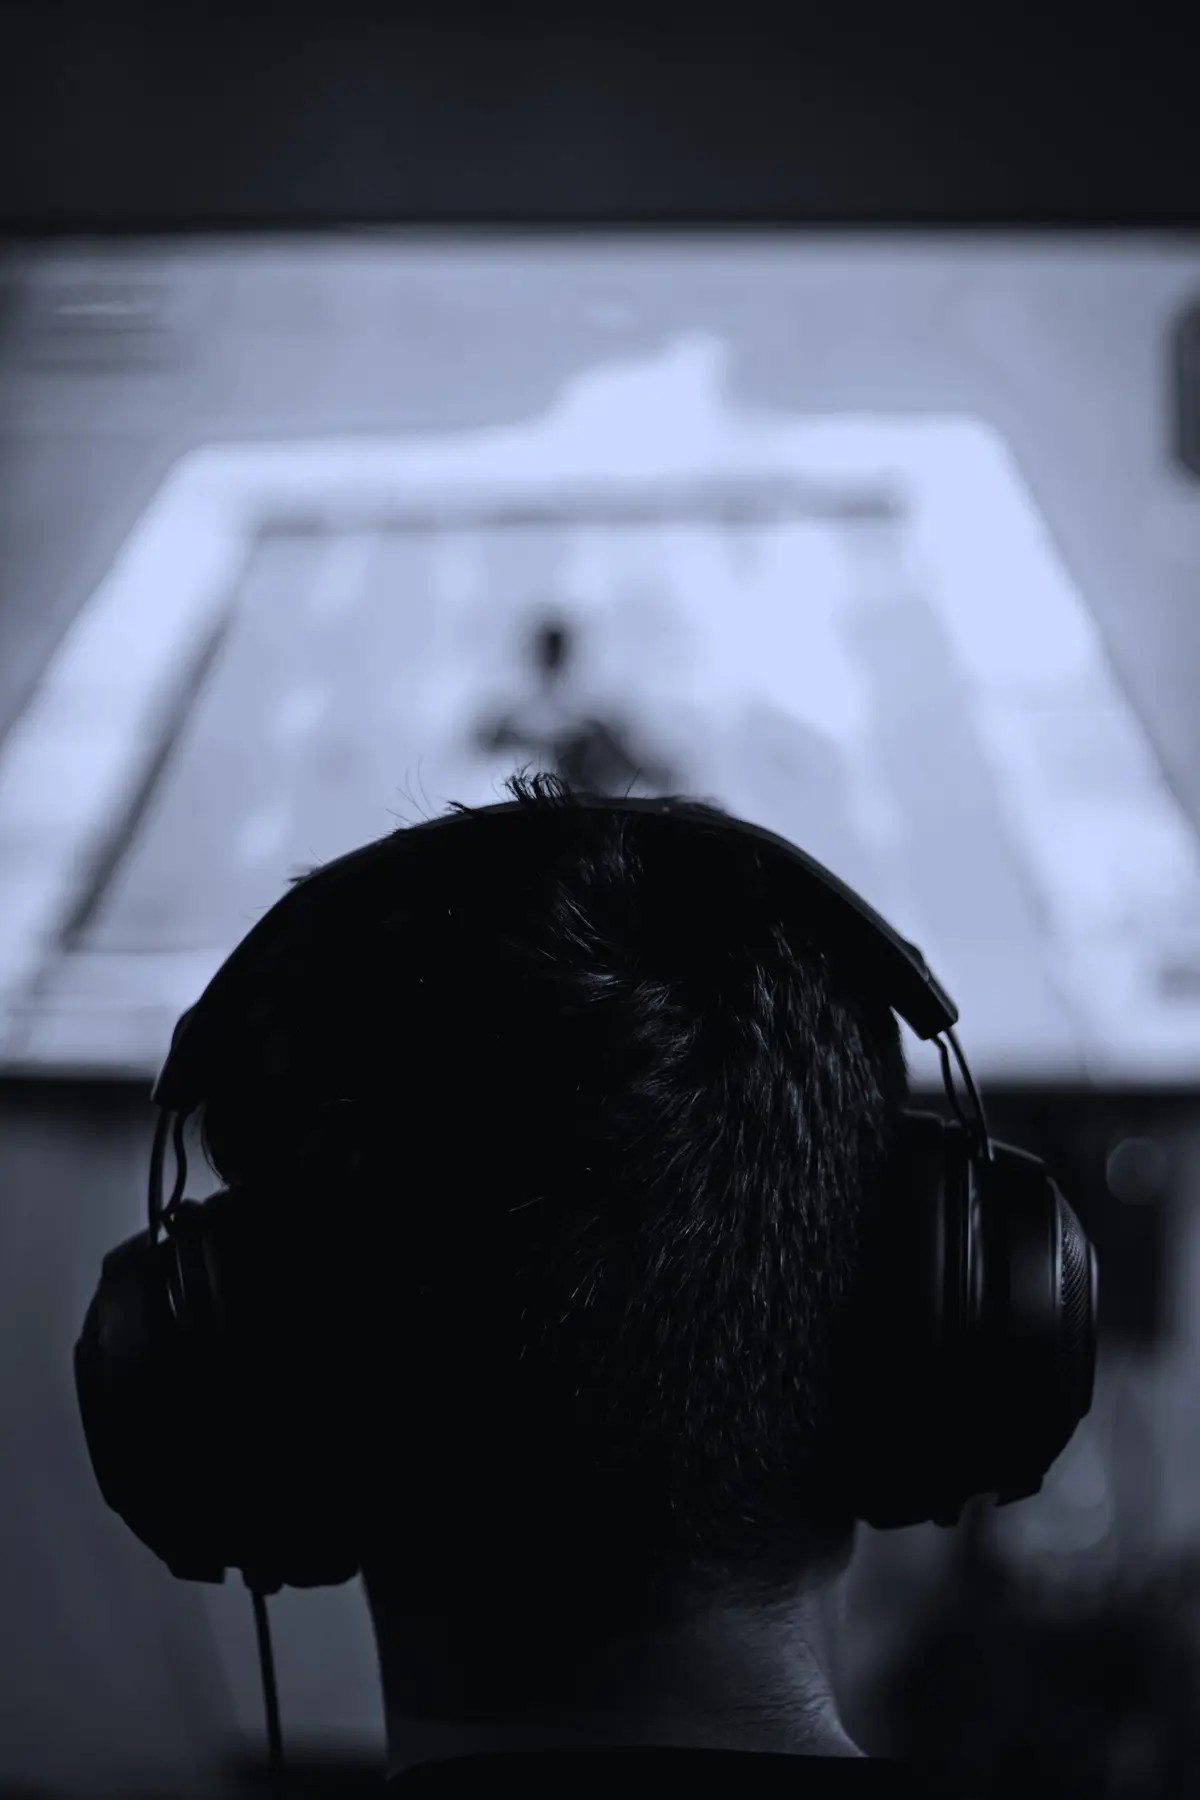
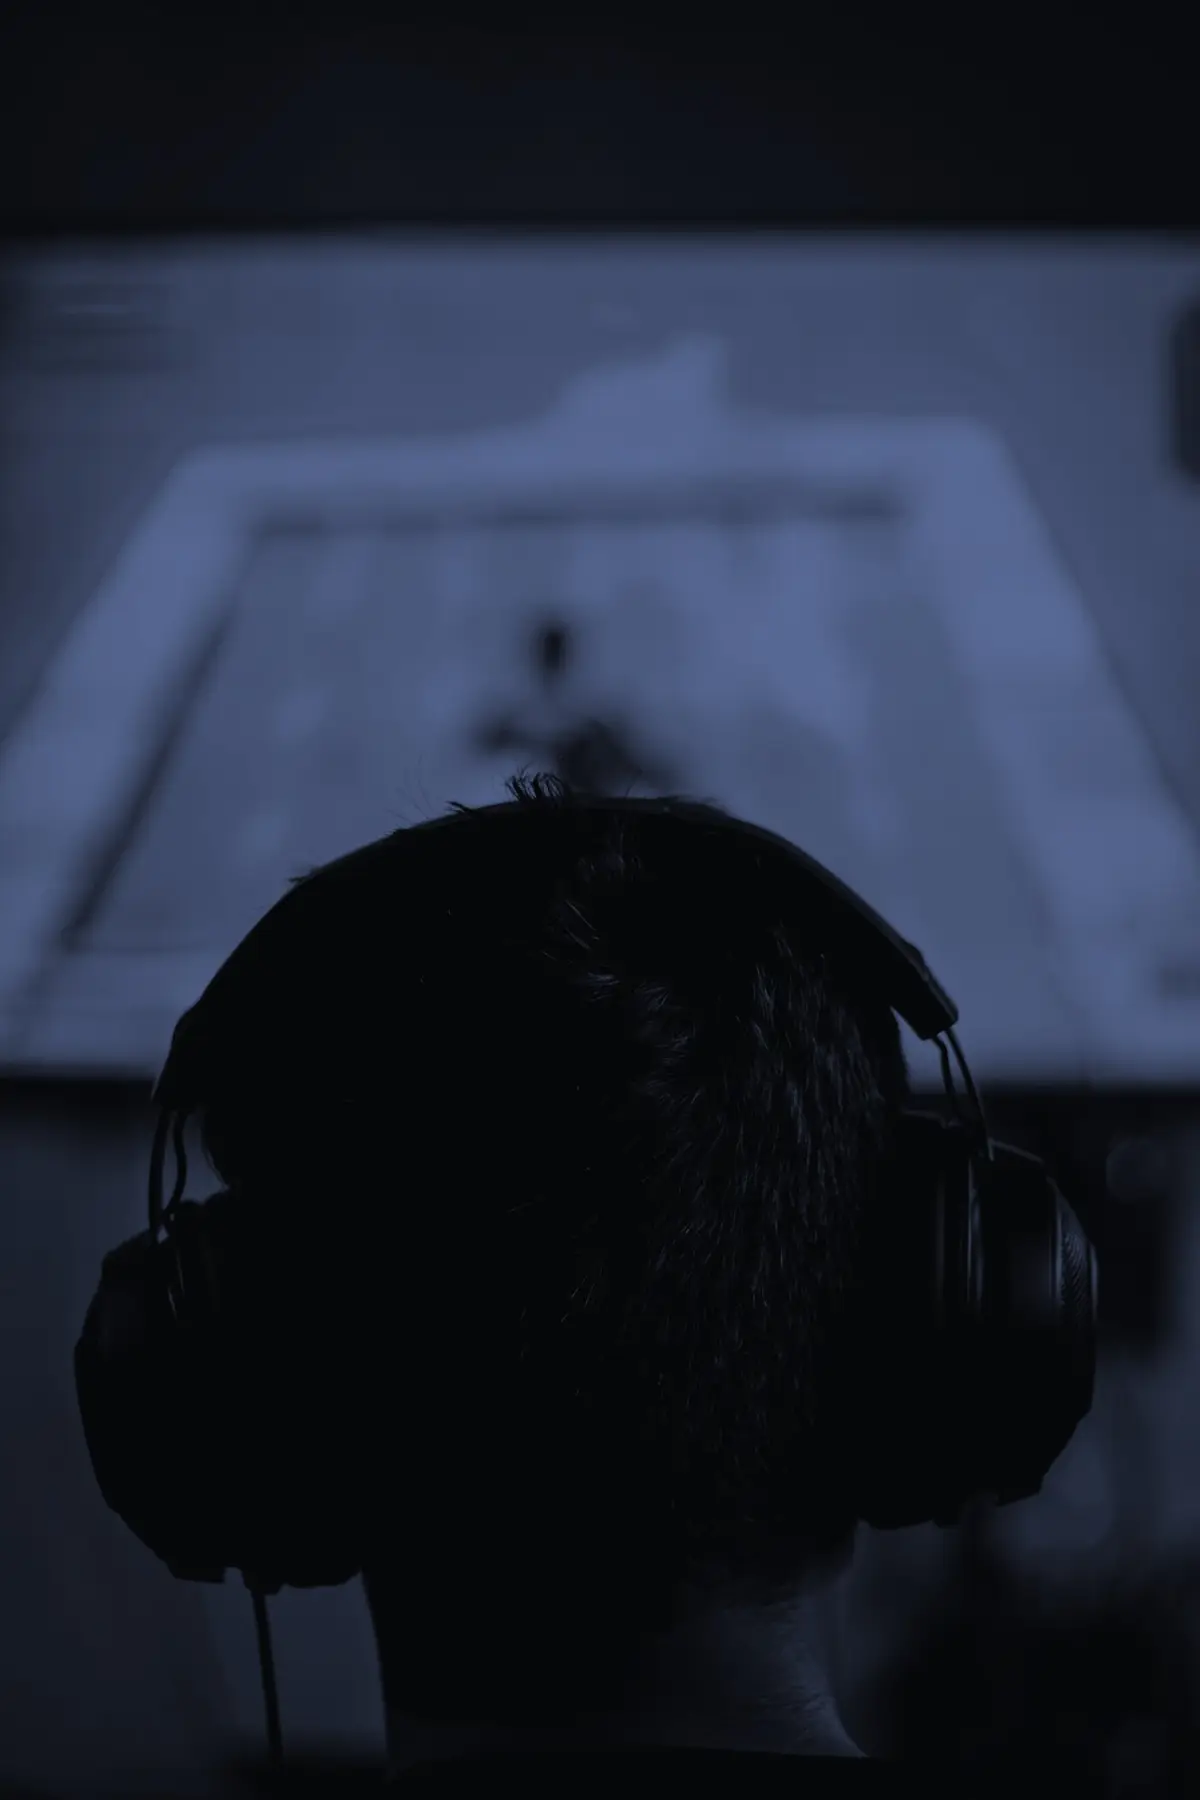
feat: linhas de chamada da barra de luz e do micro-USB na abertura
- linhas de 1 px sobre a foto ligam a barra de luz e a porta micro-USB aos
  recursos (cor do LED; som só pelo cabo), a partir de 960 px;
- a faixa da foto começa abaixo do texto e esconde os rótulos de cabeça
  para baixo do controle, sem texto sobre detalhe da foto;
- foto do fone em duotom mais escuro: a tela da TV deixa de ser a área
  mais clara da página.

diff --git a/landingpage/css/style.css b/landingpage/css/style.css
@@ -339,13 +339,82 @@ p {
 .hero-photo {
   position: relative;
   z-index: -1;
-  margin: clamp(-96px, -5vw, -32px) calc(-1 * var(--gutter)) 0;
+  margin: 8px calc(-1 * var(--gutter)) 0;
   aspect-ratio: 3 / 1;
   max-height: 720px;
   overflow: hidden;
   /* a foto se dissolve no preto da página nas duas pontas */
-  -webkit-mask-image: linear-gradient(to bottom, transparent 0, #000 28%, #000 72%, transparent 100%);
-  mask-image: linear-gradient(to bottom, transparent 0, #000 28%, #000 72%, transparent 100%);
+  -webkit-mask-image: linear-gradient(to bottom, transparent 0, transparent 6%, #000 20%, #000 72%, transparent 100%);
+  mask-image: linear-gradient(to bottom, transparent 0, transparent 6%, #000 20%, #000 72%, transparent 100%);
+}
+
+/* linhas de chamada sobre a foto: posições em % da faixa 3:1 */
+.callouts {
+  list-style: none;
+  margin: 0;
+  padding: 0;
+}
+
+.callout {
+  position: absolute;
+  display: flex;
+  align-items: center;
+  gap: 10px;
+  font-size: 0.8125rem;
+  line-height: 1.2;
+  color: var(--text-2);
+  white-space: nowrap;
+}
+
+.callout b {
+  font-weight: 500;
+  color: var(--white);
+  margin-right: 6px;
+}
+
+.c-line {
+  position: relative;
+  height: 1px;
+  background: rgb(255 255 255 / 0.6);
+}
+
+.c-line::before {
+  content: "";
+  position: absolute;
+  top: -2px;
+  width: 5px;
+  height: 5px;
+  border-radius: 50%;
+  background: var(--white);
+}
+
+.c-luz {
+  left: 62.2%;
+  top: 28%;
+  transform: translateY(-50%);
+}
+
+.c-luz .c-line {
+  width: 8vw;
+}
+
+.c-luz .c-line::before {
+  left: -2px;
+}
+
+.c-usb {
+  right: 50.6%;
+  top: 38.5%;
+  flex-direction: row-reverse;
+  transform: translateY(-50%);
+}
+
+.c-usb .c-line {
+  width: 10vw;
+}
+
+.c-usb .c-line::before {
+  right: -2px;
 }
 
 .hero-photo img {
@@ -411,7 +480,7 @@ p {
   position: relative;
   max-width: 1040px;
   /* a janela nasce logo abaixo da barra de luz da foto, que fica acesa atrás dela */
-  margin: min(-20vw, -120px) auto 0;
+  margin: min(-19vw, -120px) auto 0;
 }
 
 .window-wrap > .caption {
@@ -1455,6 +1524,11 @@ input[type="range"]::-moz-range-thumb {
 /* ---------- responsivo ---------- */
 
 @media (max-width: 960px) {
+  /* a faixa fica estreita demais para os rótulos das chamadas */
+  .callouts {
+    display: none;
+  }
+
   .topbar {
     gap: 12px;
   }
@@ -1522,6 +1596,7 @@ input[type="range"]::-moz-range-thumb {
   .hero-photo {
     aspect-ratio: 16 / 9;
   }
+
 
   .hero-photo img {
     object-position: 50% 76%;

diff --git a/landingpage/index.html b/landingpage/index.html
@@ -84,11 +84,15 @@
                 </p>
             </div>
 
-            <div class="hero-photo" aria-hidden="true">
-                <picture>
+            <div class="hero-photo">
+                <picture aria-hidden="true">
                     <source type="image/webp" srcset="assets/img/controle-luz-960.webp 960w, assets/img/controle-luz-1600.webp 1600w, assets/img/controle-luz-2400.webp 2400w" sizes="100vw">
                     <img src="assets/img/controle-luz.jpg" alt="" width="2400" height="1653" fetchpriority="high">
                 </picture>
+                <ul class="callouts" aria-label="Partes do controle que o app usa">
+                    <li class="callout c-luz"><span class="c-line" aria-hidden="true"></span><span class="c-text"><b>Barra de luz</b> cor do LED, por jogador</span></li>
+                    <li class="callout c-usb"><span class="c-line" aria-hidden="true"></span><span class="c-text"><b>Micro-USB</b> som no controle só pelo cabo</span></li>
+                </ul>
             </div>
 
             <!-- Prévia interativa da janela -->

diff --git a/landingpage/.impeccable/surfaces/index-html.md b/landingpage/.impeccable/surfaces/index-html.md
@@ -26,6 +26,6 @@ STORY: entende em uma linha que o som vai para a TV e para o controle ao mesmo t
 
 FIRST VIEWPORT: título leve à esquerda no topo (≈ 64–80 px) com a frase do produto; logo e links mínimos numa barra fina; a janela do app ocupa ~60% da largura, inclinada zero, flutuando sobre foto escura do controle com a faixa de luz acesa; ação principal "Acompanhar no GitHub" (led-blue) + "Como instalar"; o comando copiável fica na seção de instalação, rotulado "quando sair", porque o pacote ainda não existe. Raise (estrutura 4, sala à noite): foto real de controle no escuro como chão do hero. Raise (estrutura 3, fader): o slider em dB da janela é arrastável e mostra livre/alto/acima do limite com inversão.
 
-FORM: estrutura 6 de 7 (página como janela do app), sorteada na frente; seed:d69856b8a6825e94. Desafiantes recusados; da prancha de patente fica só a linha de chamada fina, no grafo do áudio (a foto é frontal e não mostra alto-falante nem motores, então uma anatomia apontaria para o lugar errado). Do contador nixie: o valor em dB é o único numeral aceso, tabular, que troca no lugar.
+FORM: estrutura 6 de 7 (página como janela do app), sorteada na frente; seed:d69856b8a6825e94. Desafiantes recusados; da prancha de patente: linhas de chamada de 1 px sobre a foto da abertura ligando a barra de luz (Luz) e a porta micro-USB (Cabo) aos recursos; alto-falante e motores não aparecem na foto e não ganham chamada. Do contador nixie: o valor em dB é o único numeral aceso, tabular, que troca no lugar.
 
 FINISH: unreviewed and undocumented is unfinished; this build ends with the finish review, the verdict, DESIGN.md, and every shipping raster carrying its provenance
